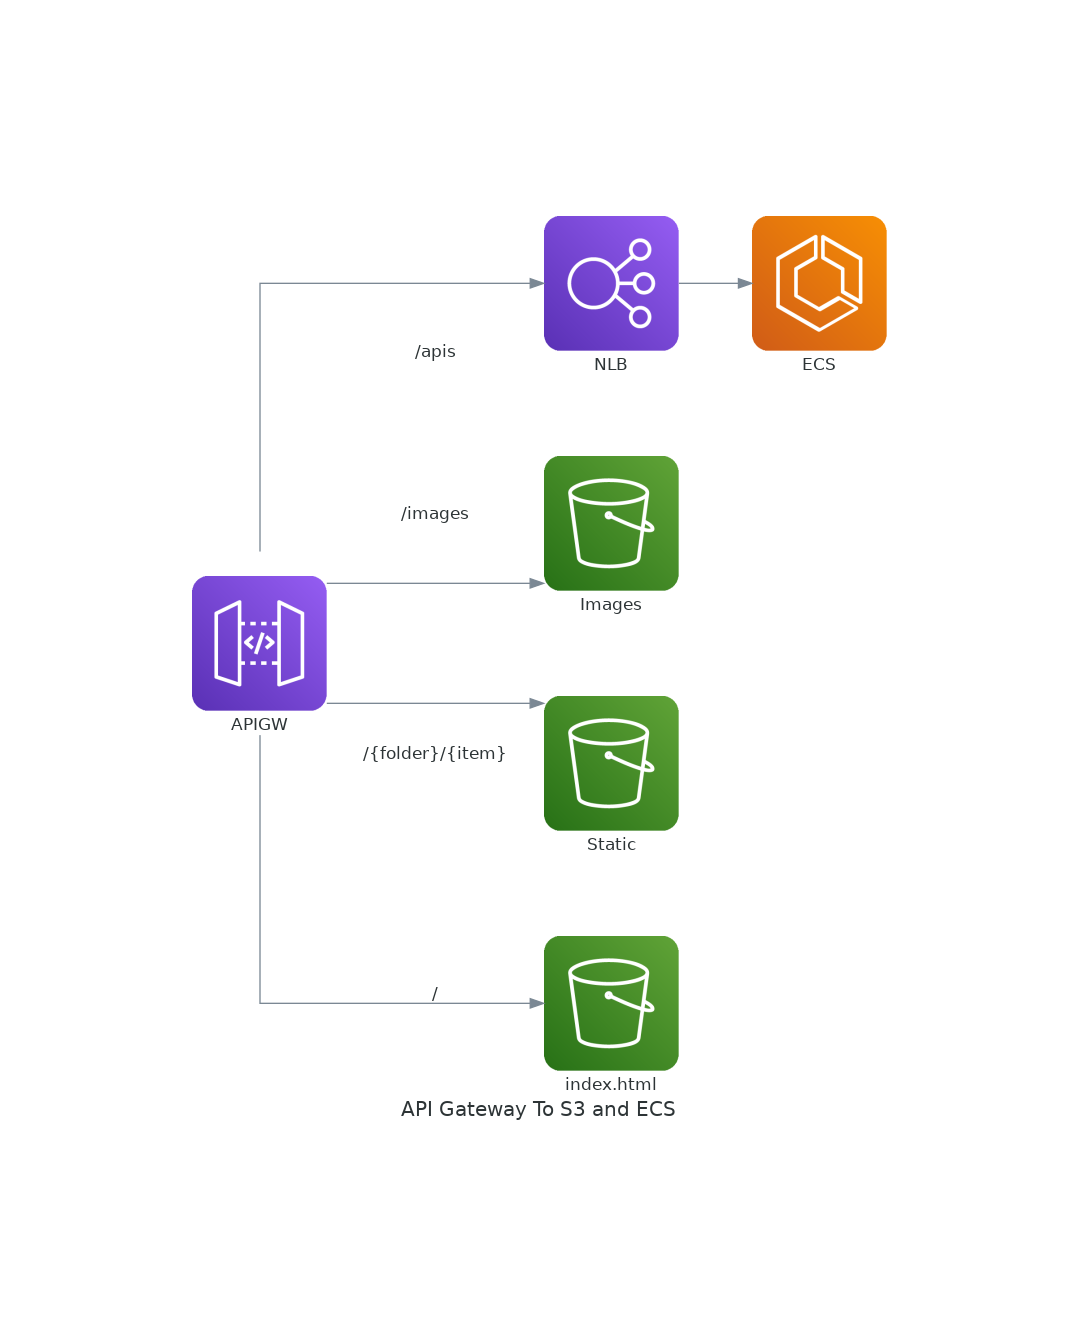
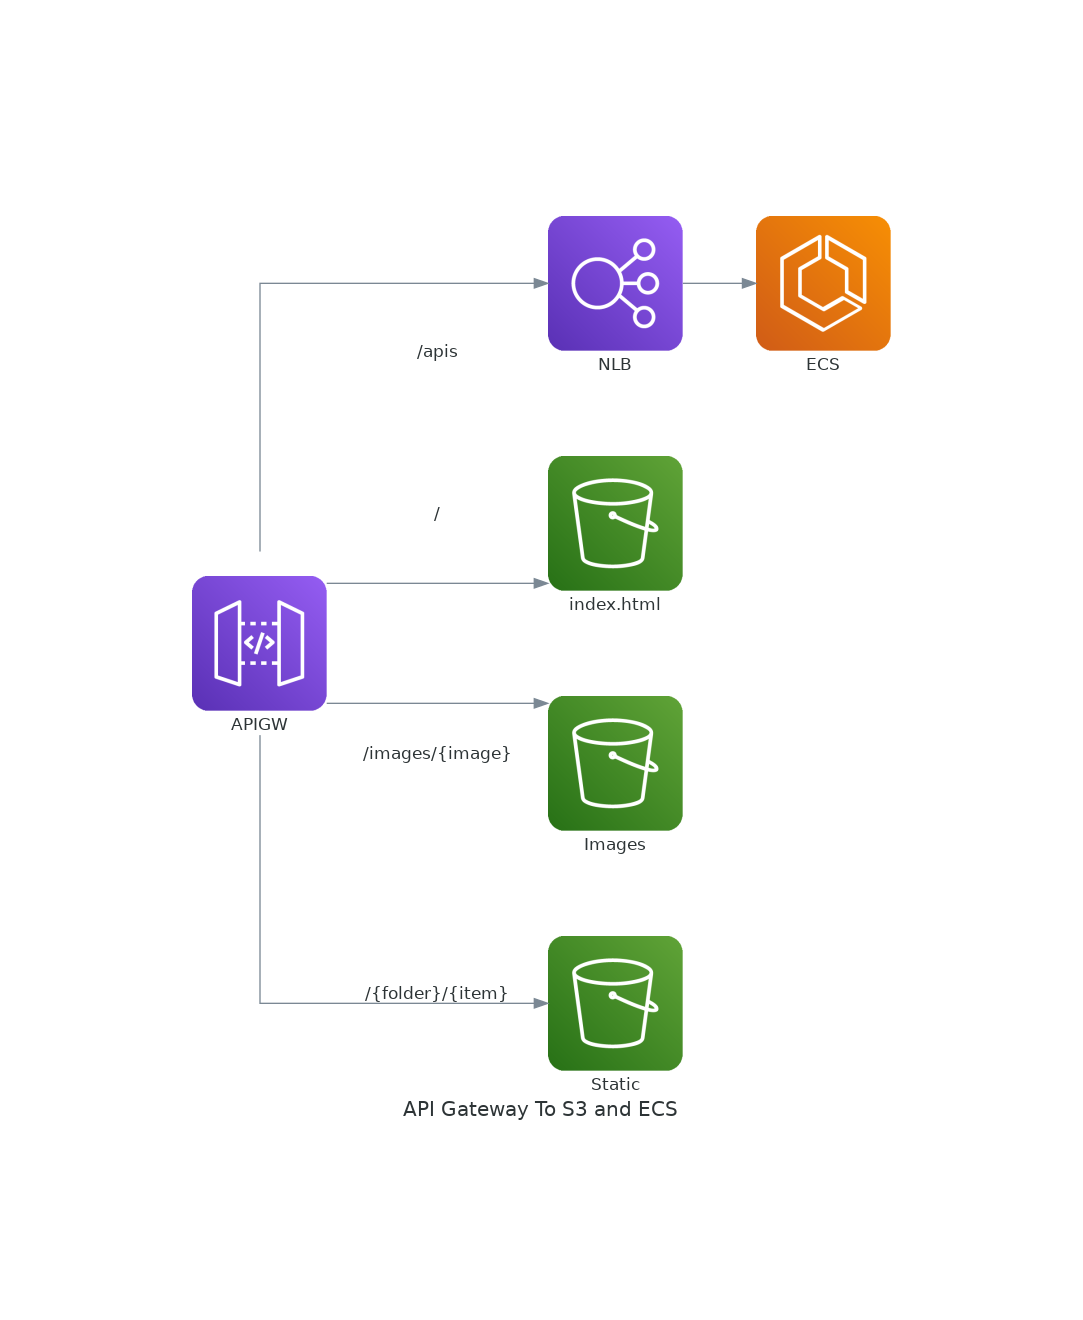
updated

diff --git a/diagram/main.py b/diagram/main.py
@@ -9,7 +9,8 @@ with Diagram("API Gateway To S3 and ECS", show=False, direction="LR"):
     lb = ELB("NLB")
     api_gw = apigw("APIGW")
 
-    api_gw >> Edge(label="/apis") >> lb >> ECS("ECS")
-    api_gw >> Edge(label="/images") >> S3("Images")
-    api_gw >> Edge(label="/{folder}/{item}") >> S3("Static")
     api_gw >> Edge(label="/") >> S3("index.html")
+    api_gw >> Edge(label="/images/{image}") >> S3("Images")
+    api_gw >> Edge(label="/{folder}/{item}") >> S3("Static")
+    api_gw >> Edge(label="/apis") >> lb >> ECS("ECS")
+    
